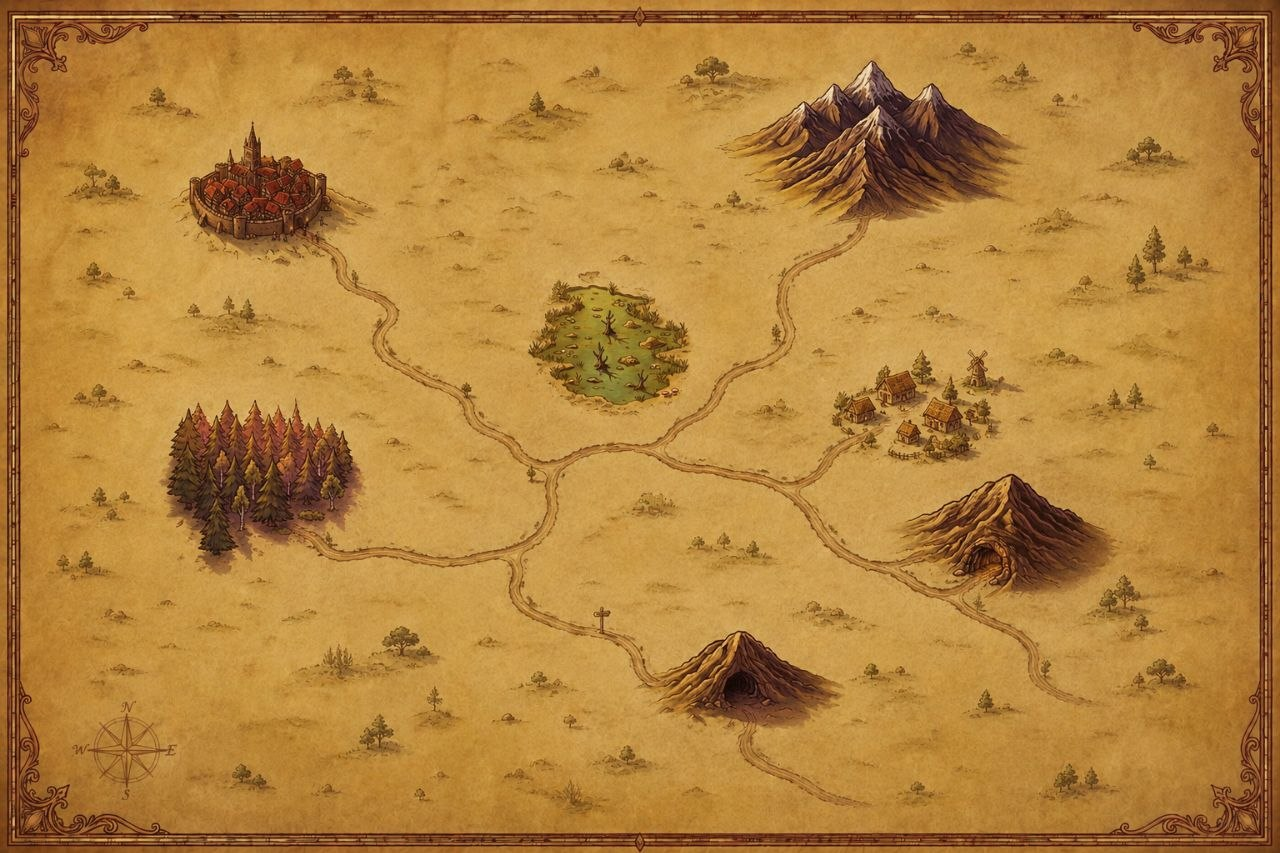
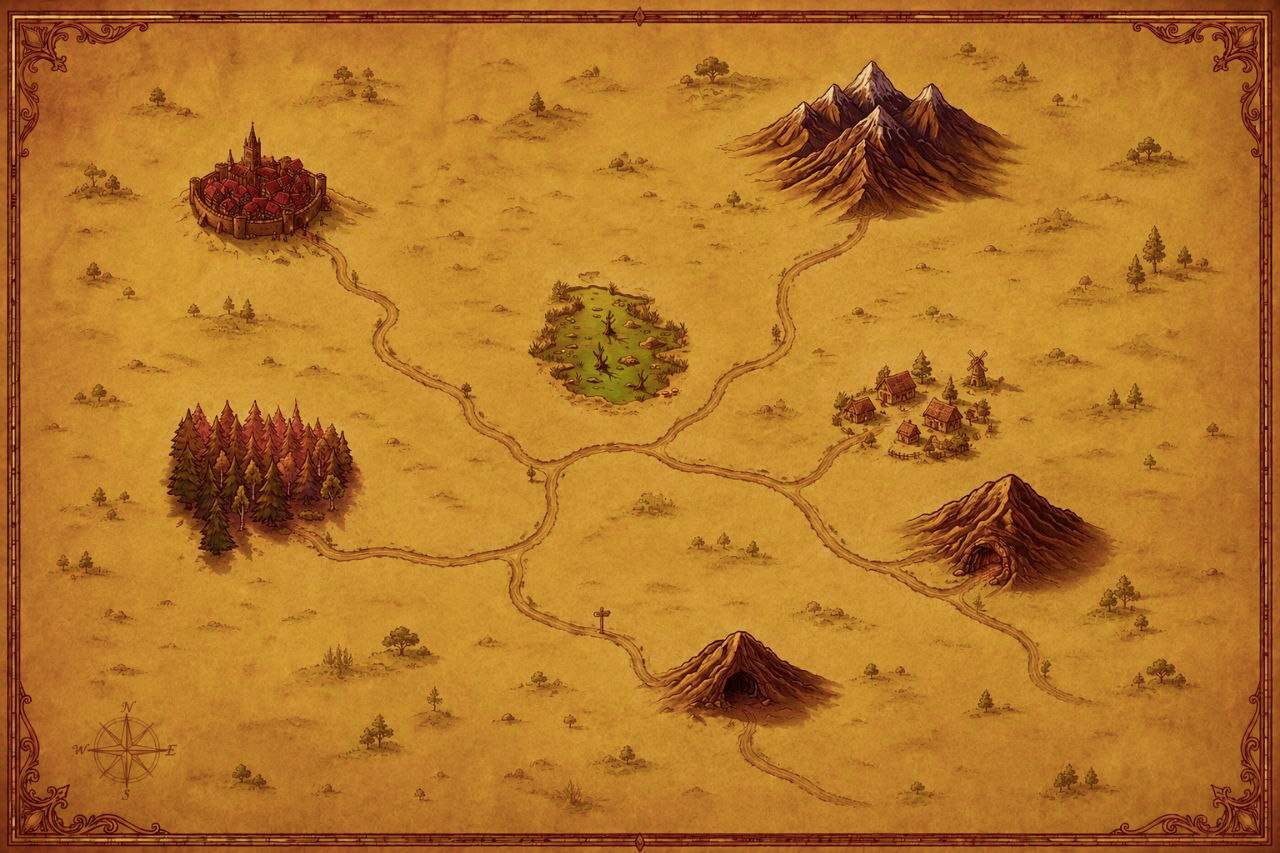
change player scale in shop(shop_area)

diff --git a/data/local_scenes.py b/data/local_scenes.py
@@ -199,7 +199,8 @@ def build_scene_config(scene_id: str) -> Optional[LocalSceneConfig]:
             npcs=[
                 NpcSpawnConfig("shopkeeper", "Торговец", 0.52, 0.66, action="shop"),
             ],
-            # Отдельного bg_shop пока нет — однотонная заливка на экране.
+            player_scale=1.8,  # Игрок больше в магазине (0.8 → 1.7)
+            enemy_scale=0.8,   # Можно задать и масштаб врагов, если понадобится
             background_candidates=_bg_candidates(scene_id),
         )
 

diff --git a/core/config.py b/core/config.py
@@ -179,7 +179,7 @@ PATROL_RADIUS = 150
 CONE_ANGLE = 120
 CONE_LENGTH = 200
 HEARING_RADIUS = 95
-PLAYER_BASE_RADIUS = 12
+PLAYER_BASE_RADIUS = 20
 ENEMY_BASE_RADIUS = 12
 BOSS_BASE_RADIUS = 18
 NPC_BASE_RADIUS = 14